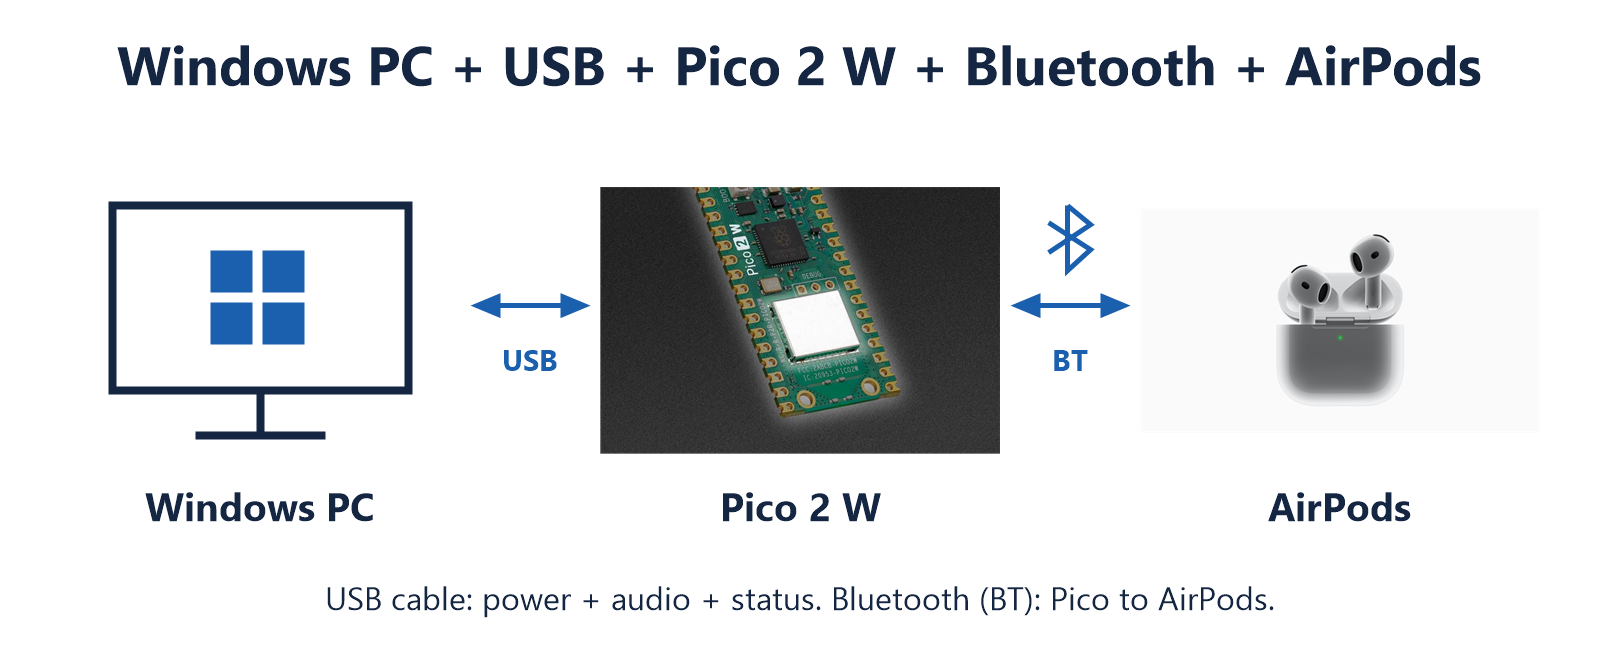
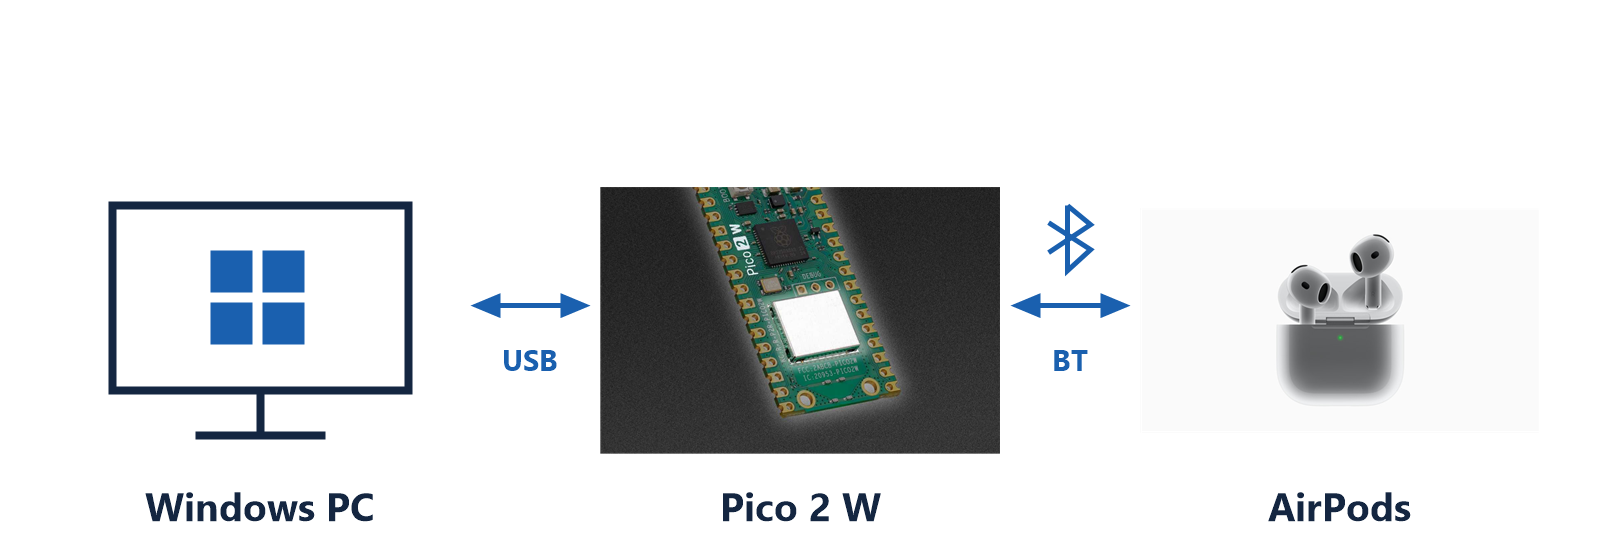
Simplify README visuals and remove redundant diagrams

diff --git a/README.md b/README.md
@@ -15,31 +15,19 @@ This repository contains the **case-battery-anc-v1** firmware and Windows compan
 
 ![Windows companion dashboard showing battery cards and ANC controls](docs/images/windows-dashboard.png)
 
-*Dashboard preview with sample battery values.* Click the tray icon to open this window at the lower-right above the taskbar. Each card shows the latest available battery reading and charging state. Select an enabled ANC mode to request a change; the current selection follows the mode confirmed by the headphones.
+*Sample readings.* Click the tray icon for battery status and ANC controls.
 
-## Connection diagrams
+## Connection
 
-### Physical connection
+![Windows PC connected by USB to Pico 2 W, then Bluetooth to AirPods](docs/images/hardware-connection.png)
 
-![Windows PC illustration, USB link, Pico 2 W photo, Bluetooth link, and AirPods photo](docs/images/hardware-connection.png)
-
-*Hardware overview. Product photos: [Raspberry Pi](https://www.raspberrypi.com/products/raspberry-pi-pico-2/) and [Apple Newsroom](https://www.apple.com/newsroom/2024/09/apple-introduces-airpods-4-and-a-hearing-health-experience-with-airpods-pro-2/). Windows PC and connection symbols are illustrations. Photos are not to scale.*
-
-![Physical block diagram: Windows computer connected by USB to Pico 2 W, then Bluetooth to AirPods](docs/images/physical-connection.png)
-
-Plug the Pico into the computer over USB and pair the AirPods with the Pico. The Pico handles Bluetooth; Windows sees a USB audio device and a serial port. The Windows companion runs on the computer and uses that same USB cable.
-
-### Audio and application data
-
-![Readable block diagrams for stereo playback, microphone audio, and battery ANC controls](docs/images/audio-control-paths.png)
-
-The companion reads cached battery information and sends ANC requests through the Pico. Audio applications use the separate USB audio interface, so the companion does not carry the playback or microphone stream. Closing the companion stops monitoring; it does not disconnect the AirPods Bluetooth link.
+Connect the PC to the Pico over **USB**, then pair AirPods with the Pico over **Bluetooth (BT)**. [Photo credits](docs/images/ATTRIBUTION.md).
 
 ## Standard Bluetooth adapter vs. USB AirPods
 
 **With the microphone on, standard Bluetooth Classic switches to voice-call audio. USB AirPods keeps stereo playback running.**
 
-![Two-way audio comparison: Bluetooth HFP speaker and microphone at 8 or 16 kHz mono versus USB AirPods 48 kHz stereo playback and a 64 kHz USB microphone interface](docs/images/bluetooth-comparison.png)
+![With the microphone active: Bluetooth HFP uses 8 or 16 kHz mono audio; USB AirPods keeps 48 kHz stereo playback with a separate AACP microphone stream](docs/images/bluetooth-comparison.png)
 
 - **Standard Bluetooth Classic (HFP):** both speaker and microphone use mono call audio: **8 kHz narrowband** or **16 kHz wideband**, depending on the negotiated codec. This is the familiar switch from stereo music to voice-call sound when the headset microphone opens. These rates are documented by [Microsoft](https://learn.microsoft.com/en-us/windows-hardware/drivers/bluetooth/bluetooth-classic-audio).
 - **USB AirPods:** playback stays at **48 kHz stereo** while the microphone uses a separate AACP/AAC-ELD path. The firmware presents a **64 kHz mono USB microphone interface** to Windows (`USB_MIC_SAMPLE_RATE` in `src/tinyusb/usb_descriptors.h`). The decoder reports **48 kHz** and native microphone timing is still under investigation, so the USB interface rate must not be read as proven 64 kHz recording fidelity.
